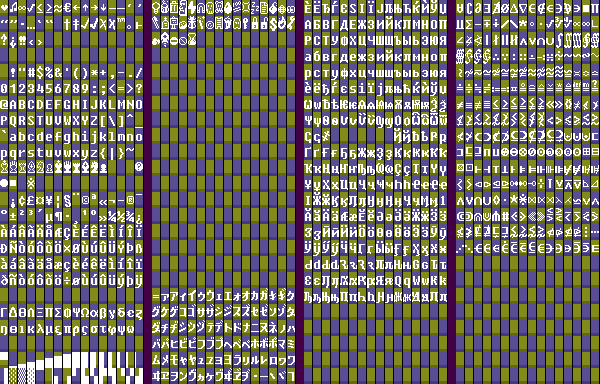
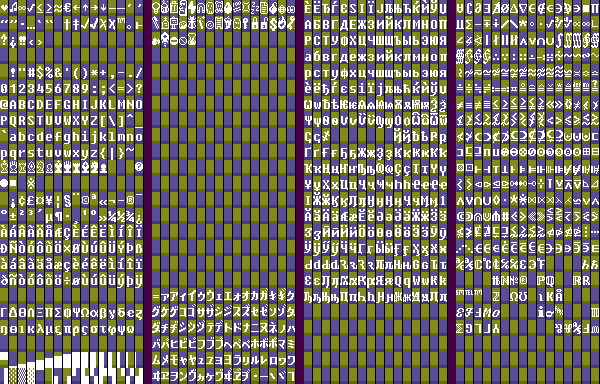
Start on letter-like symbols block
git-svn-id: file:///home/runner/work/tom7misc-sync-action/tom7misc-sync-action/upstream/trunk@6270 c7e11af0-4c7a-11f1-9edd-117cb6f09d55

diff --git a/bit7/font-image.cc b/bit7/font-image.cc
@@ -1,9 +1,15 @@
 #include "font-image.h"
 
 #include <cstdint>
+#include <cstdio>
+#include <cstdlib>
+#include <initializer_list>
 #include <map>
 #include <memory>
 #include <string>
+#include <unordered_map>
+#include <utility>
+#include <vector>
 
 #include "base/logging.h"
 #include "image.h"
@@ -1025,12 +1031,90 @@ const std::vector<int> &PageBit7Math() {
     0x22fe,  // (⋾) SMALL CONTAINS WITH OVERBAR
     0x22ff,  // (⋿) Z NOTATION BAG MEMBERSHIP
 
-    -1, -1, -1, -1, -1, -1, -1, -1, -1, -1, -1, -1, -1, -1, -1, -1,
-    -1, -1, -1, -1, -1, -1, -1, -1, -1, -1, -1, -1, -1, -1, -1, -1,
-    -1, -1, -1, -1, -1, -1, -1, -1, -1, -1, -1, -1, -1, -1, -1, -1,
-    -1, -1, -1, -1, -1, -1, -1, -1, -1, -1, -1, -1, -1, -1, -1, -1,
+    // Letter-like symbols
+    // (I think these are not the official unicode names; they come
+    // from Wikipedia)
+    0x2100,  // (℀) ACCOUNT OF
+    0x2101,  // (℁) ADDRESSED TO THE SUBJECT (I.E., CARE OF)
+    0x2102,  // (ℂ) DOUBLE-STRUCK CAPITAL C
+    0x2103,  // (℃) DEGREE CELSIUS
+    0x2104,  // (℄) CENTER LINE SYMBOL
+    0x2105,  // (℅) CARE OF
+    0x2106,  // (℆) CADA UNA[4]
+    0x2107,  // (ℇ) EULER CONSTANT[5]
+    0x2108,  // (℈) SCRUPLE
+    0x2109,  // (℉) DEGREE FAHRENHEIT
+    0x210A,  // (ℊ) SCRIPT SMALL G
+    0x210B,  // (ℋ) SCRIPT CAPITAL H
+    0x210C,  // (ℌ) BLACK-LETTER CAPITAL H
+    0x210D,  // (ℍ) DOUBLE-STRUCK CAPITAL H
+    0x210E,  // (ℎ) PLANCK CONSTANT
+    0x210F,  // (ℏ) REDUCED PLANCK CONSTANT (PLANCK CONSTANT OVER 2Π)
+    0x2110,  // (ℐ) SCRIPT CAPITAL I
+    0x2111,  // (ℑ) BLACK-LETTER CAPITAL I
+    0x2112,  // (ℒ) SCRIPT CAPITAL L
+    0x2113,  // (ℓ) SCRIPT SMALL L (LATEX: \ELL)
+    0x2114,  // (℔) L B BAR SYMBOL
+    0x2115,  // (ℕ) DOUBLE-STRUCK CAPITAL N
+    0x2116,  // (№) NUMERO SIGN
+    0x2117,  // (℗) SOUND RECORDING COPYRIGHT SYMBOL
+    0x2118,  // (℘) SCRIPT CAPITAL aka WEIERSTRASS ELLIPTIC FUNCTION
+    0x2119,  // (ℙ) DOUBLE-STRUCK CAPITAL P
+    0x211A,  // (ℚ) DOUBLE-STRUCK CAPITAL Q
+    0x211B,  // (ℛ) SCRIPT CAPITAL R
+    0x211C,  // (ℜ) BLACK-LETTER CAPITAL R
+    0x211D,  // (ℝ) DOUBLE-STRUCK CAPITAL R
+    0x211E,  // (℞) PRESCRIPTION TAKE
+    0x211F,  // (℟) RESPONSE
+    0x2120,  // (℠) SERVICE MARK
+    0x2121,  // (℡) TELEPHONE SIGN
+    0x2122,  // (™) TRADEMARK SIGN
+    0x2123,  // (℣) VERSICLE
+    0x2124,  // (ℤ) DOUBLE-STRUCK CAPITAL Z
+    0x2125,  // (℥) OUNCE SIGN
+    0x2126,  // (Ω) OHM SIGN
+    0x2127,  // (℧) INVERTED OHM SIGN
+    0x2128,  // (ℨ) BLACK-LETTER CAPITAL Z
+    0x2129,  // (℩) TURNED GREEK SMALL LETTER IOTA
+    0x212A,  // (K) KELVIN SIGN
+    0x212B,  // (Å) ÅNGSTRÖM SIGN
+    0x212C,  // (ℬ) SCRIPT CAPITAL B
+    0x212D,  // (ℭ) BLACK-LETTER CAPITAL C
+    0x212E,  // (℮) ESTIMATED SYMBOL
+    0x212F,  // (ℯ) SCRIPT SMALL E
+    0x2130,  // (ℰ) SCRIPT CAPITAL E
+    0x2131,  // (ℱ) SCRIPT CAPITAL F
+    0x2132,  // (Ⅎ) TURNED CAPITAL F
+    0x2133,  // (ℳ) SCRIPT CAPITAL M
+    0x2134,  // (ℴ) SCRIPT SMALL O
+    0x2135,  // (ℵ) ALEF SYMBOL
+    0x2136,  // (ℶ) BET SYMBOL
+    0x2137,  // (ℷ) GIMEL SYMBOL
+    0x2138,  // (ℸ) DALET SYMBOL
+    0x2139,  // (ℹ) INFORMATION SOURCE
+    0x213A,  // (℺) ROTATED CAPITAL Q
+    0x213B,  // (℻) FAX SIGN
+    0x213C,  // (ℼ) DOUBLE-STRUCK SMALL PI
+    0x213D,  // (ℽ) DOUBLE-STRUCK SMALL GAMMA
+    0x213E,  // (ℾ) DOUBLE-STRUCK CAPITAL GAMMA
+    0x213F,  // (ℿ) DOUBLE-STRUCK CAPITAL PI
+    0x2140,  // (⅀) DOUBLE-STRUCK N-ARY SUMMATION
+    0x2141,  // (⅁) TURNED SANS-SERIF CAPITAL G
+    0x2142,  // (⅂) TURNED SANS-SERIF CAPITAL L
+    0x2143,  // (⅃) REVERSED SANS-SERIF CAPITAL L
+    0x2144,  // (⅄) TURNED SANS-SERIF CAPITAL Y
+    0x2145,  // (ⅅ) DOUBLE-STRUCK ITALIC CAPITAL D
+    0x2146,  // (ⅆ) DOUBLE-STRUCK ITALIC SMALL D
+    0x2147,  // (ⅇ) DOUBLE-STRUCK ITALIC SMALL E
+    0x2148,  // (ⅈ) DOUBLE-STRUCK ITALIC SMALL I
+    0x2149,  // (ⅉ) DOUBLE-STRUCK ITALIC SMALL J
+    0x214A,  // (⅊) PROPERTY LINE
+    0x214B,  // (⅋) TURNED AMPERSAND
+    0x214C,  // (⅌) PER SIGN
+    0x214D,  // (⅍) AKTIESELSKAB
+    0x214E,  // (ⅎ) TURNED SMALL F
+    0x214F,  // (⅏) SYMBOL FOR SAMARITAN
 
-    -1, -1, -1, -1, -1, -1, -1, -1, -1, -1, -1, -1, -1, -1, -1, -1,
     -1, -1, -1, -1, -1, -1, -1, -1, -1, -1, -1, -1, -1, -1, -1, -1,
     -1, -1, -1, -1, -1, -1, -1, -1, -1, -1, -1, -1, -1, -1, -1, -1,
     -1, -1, -1, -1, -1, -1, -1, -1, -1, -1, -1, -1, -1, -1, -1, -1,
@@ -1172,6 +1256,14 @@ REUSE_FOR = {
   {0x03A3, 0x01A9}, // Greek Σ -> esh
   {'!', 0x01C3},
   {0x04D9, 0x0259}, // Cyrillic schwa -> IPA schwa
+
+  // Letter-like symbols that are REALLY letter-like.
+  // Kelvin
+  {'K', 0x212A},
+  // A with circle -> Angstrom
+  {0x00C5, 0x212B},
+  // Omega -> Ohm sign
+  {0x03A9, 0x2126},
 };
 
 Config Config::ParseConfig(const string &cfgfile) {

diff --git a/bit7/font-image.h b/bit7/font-image.h
@@ -5,6 +5,7 @@
 #include <unordered_map>
 #include <cstdint>
 #include <memory>
+#include <vector>
 
 #include "image.h"
 
